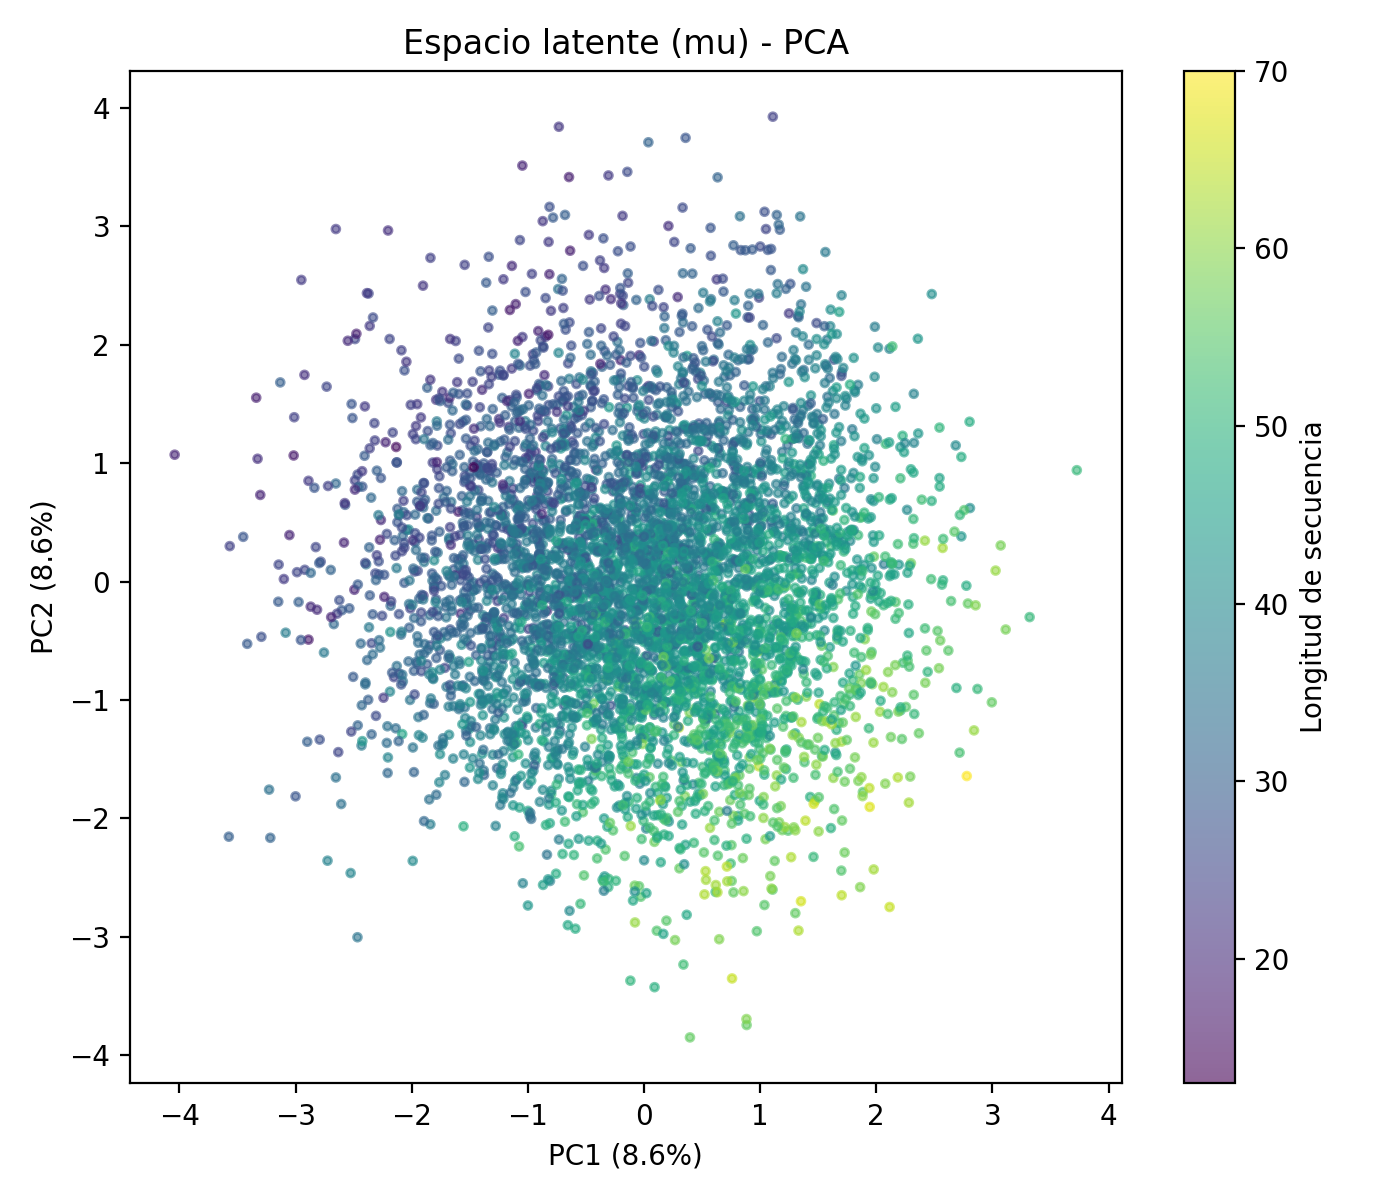
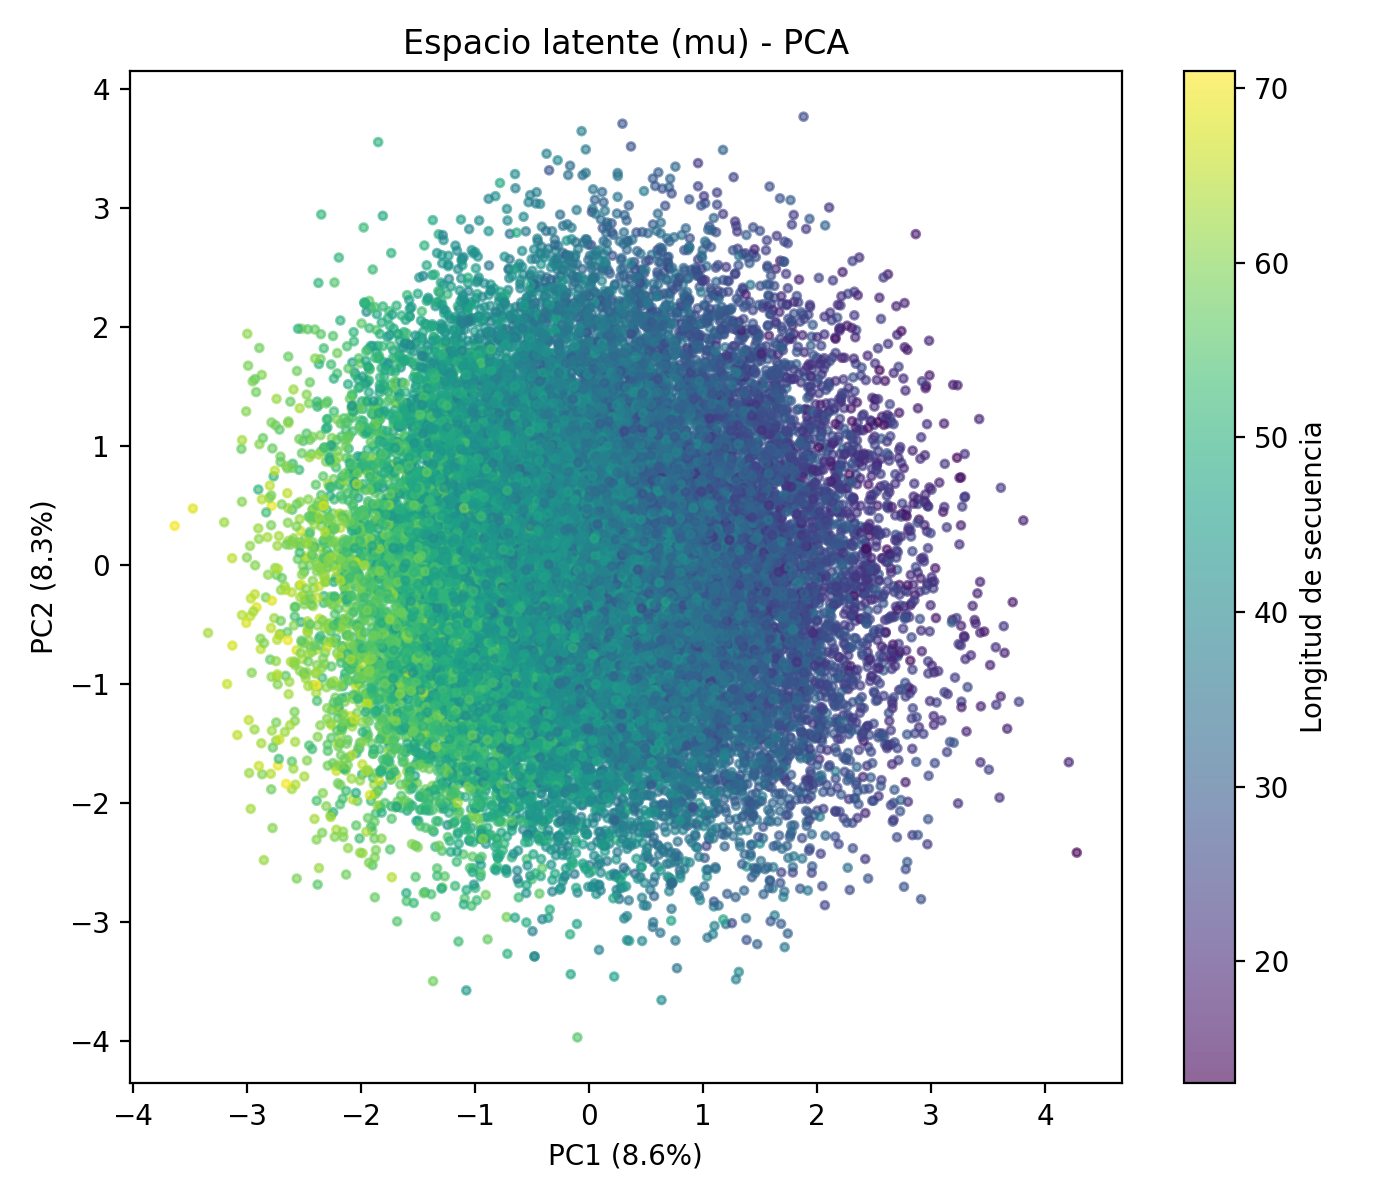
Update MAX_SAMPLES to allow processing of larger datasets

diff --git a/src/latent_viz.py b/src/latent_viz.py
@@ -16,7 +16,7 @@ MODEL_PATH = os.path.join(ROOT_DIR, "models", "vae_model.pth")
 DATA_PATH = os.path.join(ROOT_DIR, "data", "data_processed.pt")
 DEVICE = torch.device("cuda" if torch.cuda.is_available() else "cpu")
 BATCH_SIZE = 256
-MAX_SAMPLES = 5000  # usa todas si es menor que el dataset
+MAX_SAMPLES = 30000  # usa todas si es menor que el dataset
 OUT_PNG = os.path.join(ROOT_DIR, "outputs", "latent_pca.png")
 SAVE_NPY = None  # opcional: "latent_coords.npy"
 SEED = 0
